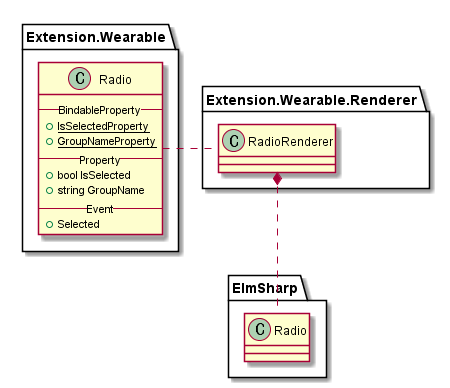
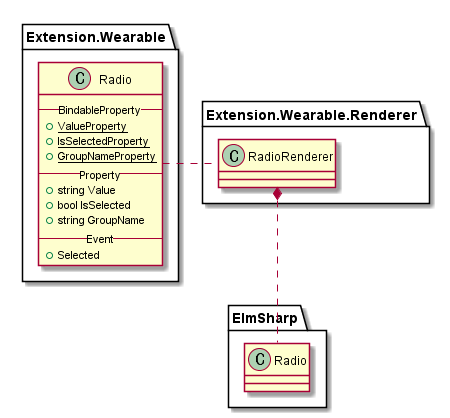
[doc] modify Radio design document (#44)

Changed region(s): [[0.0311, 0.0309, 0.9644, 0.7113], [0.4978, 0.6804, 0.7467, 0.9897]]

diff --git a/doc/design/README.onepage.md b/doc/design/README.onepage.md
@@ -534,11 +534,13 @@ Radio Diagram은 위와 같으며, 다음과 같이 코드로 표현된다.
 ```C#
 public class Radio : View
 {
+    public static readonly BindableProperty ValueProperty;
     public static readonly BindableProperty IsSelectedProperty;
     public static readonly BindableProperty GroupNameProperty;
 
     public event EventHandler Selected;
 
+    public string Value { get; set; }
     public bool IsSelected { get; set; }
     public string GroupName { get; set; }
 }

diff --git a/doc/design/part13.Radio.md b/doc/design/part13.Radio.md
@@ -12,11 +12,13 @@ Radio Diagram은 위와 같으며, 다음과 같이 코드로 표현된다.
 ```C#
 public class Radio : View
 {
+    public static readonly BindableProperty ValueProperty;
     public static readonly BindableProperty IsSelectedProperty;
     public static readonly BindableProperty GroupNameProperty;
 
     public event EventHandler Selected;
 
+    public string Value { get; set; }
     public bool IsSelected { get; set; }
     public string GroupName { get; set; }
 }
